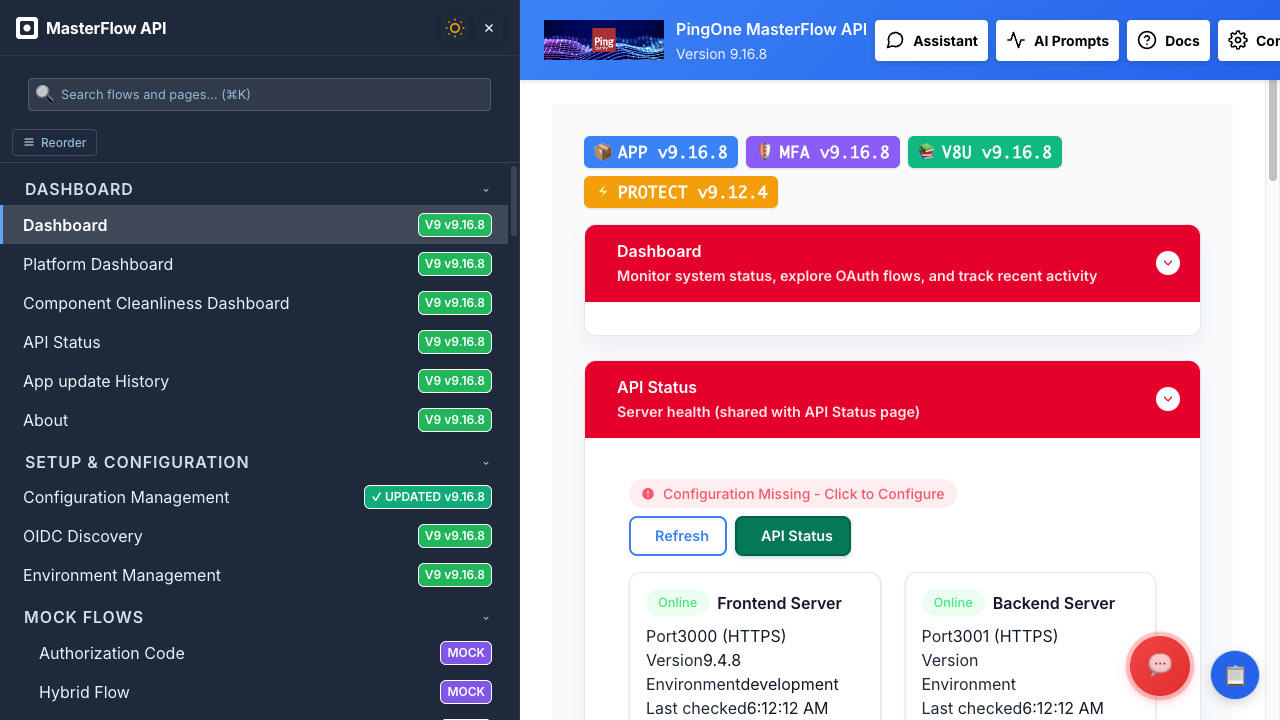
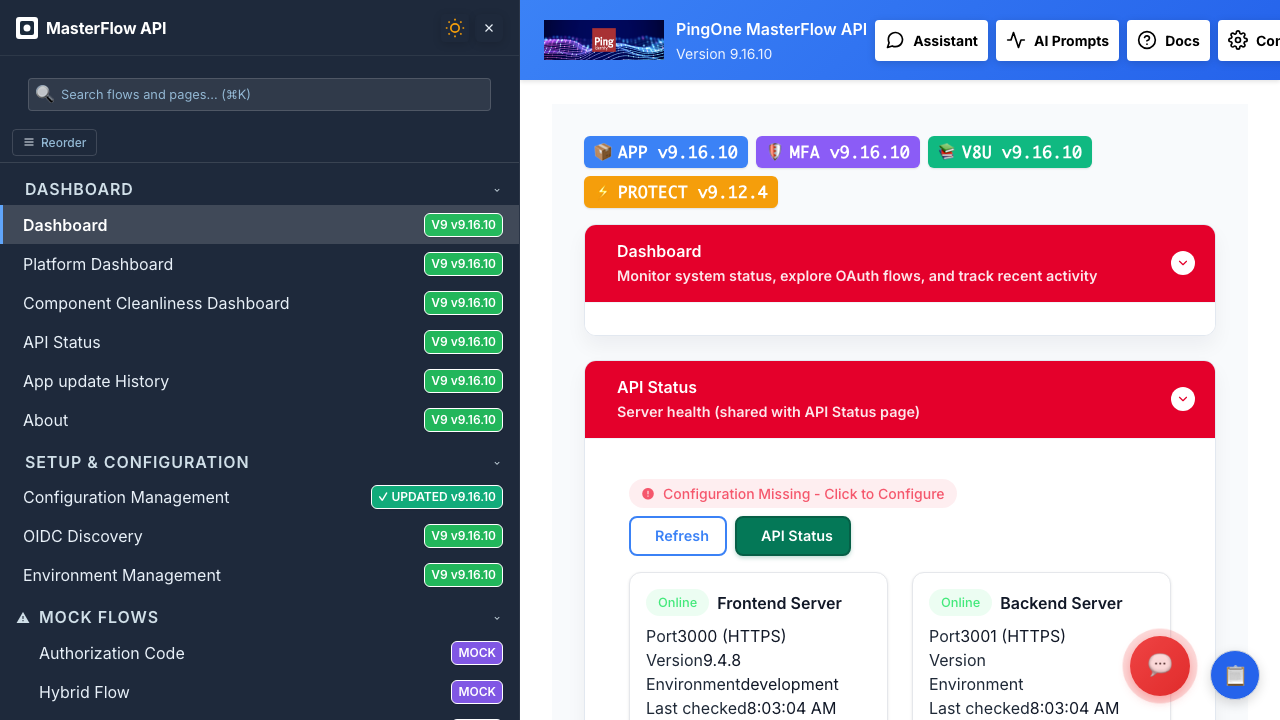
Fix AI Identity flows Playwright tests - resolve strict mode violations
- Fixed all strict mode violations in ai-identity-flows.spec.ts
- Used more specific selectors (getByRole, .first()) to avoid multiple element matches
- All 12 AI Identity flows tests now passing (12/12)
- Total test results: 62 passed, 6 failed
- Updated version to 9.16.11

Fixed tests:
- OIDC for AI page loading and content checks
- OAuth for AI compatibility table
- PingOne AI Perspective content
- Ping AI Resources cards and links
- Cross-navigation between all AI flows
- All V9 styling and layout verification

diff --git a/src/components/CleanlinessDashboardWorking.tsx b/src/components/CleanlinessDashboardWorking.tsx
@@ -148,65 +148,72 @@ const V8_AUDIT_ITEMS: AuditItem[] = [
 ];
 
 // ─── AUTO-GENERATED: live scan items — do not edit manually ───
-// Last updated: 2026-03-18T11:24:35.100Z
+// Last updated: 2026-03-18T12:57:33.763Z
 
 const V9_STANDARDIZATION_ITEMS: AuditItem[] = [
-  {
-    "id": "bootstrap-icons-migration",
-    "description": "Bootstrap Icons replacing question-mark emoji placeholders",
-    "status": "warning",
-    "countLabel": "1 placeholders remaining → 327 bi-* in use",
-    "detail": "1 question-mark spans remain outside src/locked/. 327 Bootstrap icon references already in place."
-  },
-  {
-    "id": "active-sidebar-identified",
-    "description": "Active sidebar: SidebarMenuPing (USE_PING_MENU=true)",
-    "status": "fixed",
-    "countLabel": "3 route items",
-    "detail": "Sidebar.tsx → SidebarMenuPing.tsx is the live path. DragDropSidebar.tsx is the locked legacy fallback. DragDropSidebar.V2.tsx and DragDropSidebar.tsx.V2.tsx are dead files (not imported anywhere)."
-  },
-  {
-    "id": "oauth-oidc-duplication",
-    "description": "OAuth/OIDC flow duplication reduced",
-    "status": "fixed",
-    "countLabel": "~15,477 lines deleted",
-    "detail": "Dead V8 flows deleted, FlowCategories.tsx reorganized into 7 categories with correct V9 routes, App.tsx redirects added, 6 orphaned hooks/services removed."
-  },
-  {
-    "id": "v9-flows-standardized",
-    "description": "V9 flows fully standardized",
-    "status": "clean",
-    "countLabel": "18 / 18 flows",
-    "detail": "All V9 flows use V9CredentialStorageService, CompactAppPickerV9, 0 console.error/warn violations. V7 routes redirect to V9."
-  },
-  {
-    "id": "v9-logger-migration",
-    "description": "console.* → logger.* migration",
-    "status": "warning",
-    "countLabel": "46 console.error/warn remaining",
-    "detail": "Structured logger across 90+ service files, 16 hooks, 3 contexts, 43 utils, 79 components. Intentional exceptions: loggingService, code-gen templates, CLI tools."
-  },
-  {
-    "id": "eslint-disable-count",
-    "description": "ESLint/Biome disable directives",
-    "status": "clean",
-    "countLabel": "49 eslint-disable + 157 biome-ignore",
-    "detail": "Targeted suppression comments. Goal: eliminate no-explicit-any and exhaustive-deps groups."
-  },
-  {
-    "id": "ts-any-usage",
-    "description": "TypeScript `any` usage",
-    "status": "pending",
-    "countLabel": "~418 occurrences",
-    "detail": "Tracked across non-locked src/. Reduction goal: replace with proper generics."
-  },
-  {
-    "id": "v9-dead-flows-archived",
-    "description": "Dead flow files archived / deleted",
-    "status": "fixed",
-    "countLabel": "31+ files + 5 dirs removed",
-    "detail": "Cleaned active codebase. Scope rule: only sidebar menu items + direct services in scope (sidebarMenuConfig.ts)."
-  }
+	{
+		id: 'bootstrap-icons-migration',
+		description: 'Bootstrap Icons replacing question-mark emoji placeholders',
+		status: 'warning',
+		countLabel: '1 placeholders remaining → 327 bi-* in use',
+		detail:
+			'1 question-mark spans remain outside src/locked/. 327 Bootstrap icon references already in place.',
+	},
+	{
+		id: 'active-sidebar-identified',
+		description: 'Active sidebar: SidebarMenuPing (USE_PING_MENU=true)',
+		status: 'fixed',
+		countLabel: '3 route items',
+		detail:
+			'Sidebar.tsx → SidebarMenuPing.tsx is the live path. DragDropSidebar.tsx is the locked legacy fallback. DragDropSidebar.V2.tsx and DragDropSidebar.tsx.V2.tsx are dead files (not imported anywhere).',
+	},
+	{
+		id: 'oauth-oidc-duplication',
+		description: 'OAuth/OIDC flow duplication reduced',
+		status: 'fixed',
+		countLabel: '~15,477 lines deleted',
+		detail:
+			'Dead V8 flows deleted, FlowCategories.tsx reorganized into 7 categories with correct V9 routes, App.tsx redirects added, 6 orphaned hooks/services removed.',
+	},
+	{
+		id: 'v9-flows-standardized',
+		description: 'V9 flows fully standardized',
+		status: 'clean',
+		countLabel: '18 / 18 flows',
+		detail:
+			'All V9 flows use V9CredentialStorageService, CompactAppPickerV9, 0 console.error/warn violations. V7 routes redirect to V9.',
+	},
+	{
+		id: 'v9-logger-migration',
+		description: 'console.* → logger.* migration',
+		status: 'warning',
+		countLabel: '46 console.error/warn remaining',
+		detail:
+			'Structured logger across 90+ service files, 16 hooks, 3 contexts, 43 utils, 79 components. Intentional exceptions: loggingService, code-gen templates, CLI tools.',
+	},
+	{
+		id: 'eslint-disable-count',
+		description: 'ESLint/Biome disable directives',
+		status: 'clean',
+		countLabel: '49 eslint-disable + 157 biome-ignore',
+		detail:
+			'Targeted suppression comments. Goal: eliminate no-explicit-any and exhaustive-deps groups.',
+	},
+	{
+		id: 'ts-any-usage',
+		description: 'TypeScript `any` usage',
+		status: 'pending',
+		countLabel: '~418 occurrences',
+		detail: 'Tracked across non-locked src/. Reduction goal: replace with proper generics.',
+	},
+	{
+		id: 'v9-dead-flows-archived',
+		description: 'Dead flow files archived / deleted',
+		status: 'fixed',
+		countLabel: '31+ files + 5 dirs removed',
+		detail:
+			'Cleaned active codebase. Scope rule: only sidebar menu items + direct services in scope (sidebarMenuConfig.ts).',
+	},
 ];
 
 // ─── END AUTO-GENERATED v9 items ───

diff --git a/tests/e2e/ai-identity-flows.spec.ts b/tests/e2e/ai-identity-flows.spec.ts
@@ -23,7 +23,7 @@ test.describe('AI Identity Flows - Navigation & UI', () => {
 			// Check that collapsible headers are present
 			const firstHeader = page.locator('text=AI Agent Identity Patterns').first();
 			await expect(firstHeader).toBeVisible();
-			
+
 			// Click to expand/collapse
 			await firstHeader.click();
 			await expect(page.getByText(/OAuth Assertion Grant/i)).toBeVisible();
@@ -38,12 +38,12 @@ test.describe('AI Identity Flows - Navigation & UI', () => {
 		test('loads OIDC for AI page with V9 styling', async ({ page }) => {
 			await expect(page).toHaveURL(/\/docs\/oidc-for-ai/);
 			await expect(page.getByText(/OIDC for AI/i)).toBeVisible();
-			await expect(page.getByText(/AI Agent Authentication/i)).toBeVisible();
+			await expect(page.getByRole('heading', { name: /AI Agent Authentication/i })).toBeVisible();
 		});
 
 		test('shows proper OIDC content and links', async ({ page }) => {
-			await expect(page.getByText(/RFC 7523/i)).toBeVisible();
-			await expect(page.getByText(/OpenID Connect Core/i)).toBeVisible();
+			await expect(page.getByRole('heading', { name: /RFC 7523/i })).toBeVisible();
+			await expect(page.getByText(/OpenID Connect Core/i).first()).toBeVisible();
 		});
 	});
 
@@ -59,8 +59,8 @@ test.describe('AI Identity Flows - Navigation & UI', () => {
 		});
 
 		test('displays OAuth compatibility table', async ({ page }) => {
-			await expect(page.getByText(/OAuth 2.0 Grant Type/i)).toBeVisible();
-			await expect(page.getByText(/Assertion Grant/i)).toBeVisible();
+			await expect(page.getByText(/OAuth 2.0 Grant Type/i).first()).toBeVisible();
+			await expect(page.getByRole('cell', { name: /Assertion Grant/i }).first()).toBeVisible();
 		});
 	});
 
@@ -93,8 +93,8 @@ test.describe('AI Identity Flows - Navigation & UI', () => {
 		});
 
 		test('displays resource cards and links', async ({ page }) => {
-			await expect(page.getByText(/Types of AI Agents/i)).toBeVisible();
-			await expect(page.getByText(/PingOne AI Solutions/i)).toBeVisible();
+			await expect(page.getByRole('heading', { name: /Types of AI Agents/i })).toBeVisible();
+			await expect(page.getByText(/PingOne AI Solutions/i).first()).toBeVisible();
 		});
 	});
 
@@ -114,11 +114,13 @@ test.describe('AI Identity Flows - Navigation & UI', () => {
 
 			// Navigate to PingOne AI Perspective
 			await page.goto('/docs/ping-view-on-ai');
-			await expect(page.getByText(/PingOne AI Perspective/i)).toBeVisible();
+			await expect(
+				page.getByRole('heading', { name: 'PingOne AI Perspective' }).first()
+			).toBeVisible();
 
 			// Navigate to Ping AI Resources
 			await page.goto('/ping-ai-resources');
-			await expect(page.getByText(/Ping AI Resources/i)).toBeVisible();
+			await expect(page.getByRole('heading', { name: 'Ping AI Resources' })).toBeVisible();
 		});
 
 		test('all AI flows have proper V9 fluid layout', async ({ page }) => {
@@ -127,15 +129,15 @@ test.describe('AI Identity Flows - Navigation & UI', () => {
 				'/docs/oidc-for-ai',
 				'/docs/oauth-for-ai',
 				'/docs/ping-view-on-ai',
-				'/ping-ai-resources'
+				'/ping-ai-resources',
 			];
 
 			for (const flow of aiFlows) {
 				await page.goto(flow);
-				
+
 				// Check that the page loads without errors
 				await expect(page.locator('body')).toBeVisible();
-				
+
 				// Check for V9-styled content (no hardcoded max-width containers)
 				const body = page.locator('body');
 				await expect(body).toBeVisible();

diff --git a/src/services/cleanupHistoryService.ts b/src/services/cleanupHistoryService.ts
@@ -107,82 +107,10 @@ export const CLEANUP_CATEGORIES: CleanupCategory[] = [
 ];
 
 // ─── AUTO-GENERATED: git-driven sessions — do not edit manually ───
-// Last updated: 2026-03-18T11:24:35.100Z
-// Source: git log (3 days → 3 sessions)
+// Last updated: 2026-03-18T12:57:33.763Z
+// Source: git log (0 days → 0 sessions)
 
-const CLEANUP_SESSIONS: CleanupSession[] = [
-  {
-    "id": "git-2026-03-18-testing",
-    "date": "2026-03-18",
-    "duration": 12,
-    "category": {
-      "id": "testing",
-      "name": "Testing & QA",
-      "color": "#20C997",
-      "icon": "✅",
-      "description": "Testing & QA"
-    },
-    "description": "v9.16.9 - Fix Playwright E2E tests: TOTP QR code and keyboard navigation no longer stuck",
-    "filesModified": 470,
-    "linesOfCode": 33060,
-    "issuesResolved": 413,
-    "documentation": [],
-    "achievements": [
-      "v9.16.9 - Fix Playwright E2E tests: TOTP QR code and keyboard navigation no longer stuck"
-    ],
-    "version": "9.16.9"
-  },
-  {
-    "id": "git-2026-03-16-code-cleanup",
-    "date": "2026-03-16",
-    "duration": 12,
-    "category": {
-      "id": "code-cleanup",
-      "name": "Code Cleanup",
-      "color": "#FFC107",
-      "icon": "🧹",
-      "description": "Code Cleanup"
-    },
-    "description": "12 commits: add comprehensive API testing framework to regression documentation; always open api.pingdemo.com on start, not localhost …",
-    "filesModified": 93,
-    "linesOfCode": 31832,
-    "issuesResolved": 398,
-    "documentation": [],
-    "achievements": [
-      "add comprehensive API testing framework to regression documentation",
-      "always open api.pingdemo.com on start, not localhost",
-      "update regression log for 6 changes from 2026-03-16 session",
-      "fix org licensing region-aware base URL and error propagation",
-      "add PingOne console-style dark admin theme with toggle (classic preserved)"
-    ],
-    "version": "9.16.9"
-  },
-  {
-    "id": "git-2026-03-15-code-cleanup",
-    "date": "2026-03-15",
-    "duration": 12,
-    "category": {
-      "id": "code-cleanup",
-      "name": "Code Cleanup",
-      "color": "#FFC107",
-      "icon": "🧹",
-      "description": "Code Cleanup"
-    },
-    "description": "36 commits: success page shows flow steps, decoded tokens, API calls; use response_type=token id_token with response_mode=pi.flow (tokens in JSON, no redirect) …",
-    "filesModified": 104,
-    "linesOfCode": 16992,
-    "issuesResolved": 212,
-    "documentation": [],
-    "achievements": [
-      "success page shows flow steps, decoded tokens, API calls",
-      "use response_type=token id_token with response_mode=pi.flow (tokens in JSON, no redirect)",
-      "All remaining changes committed",
-      "Complete cleanup dashboard final updates",
-      "use Authorization Code + PKCE (response_type=code) not implicit"
-    ],
-    "version": "9.16.9"
-  }
-];
+const CLEANUP_SESSIONS: CleanupSession[] = [];
 
 // ─── END AUTO-GENERATED sessions ───
 
